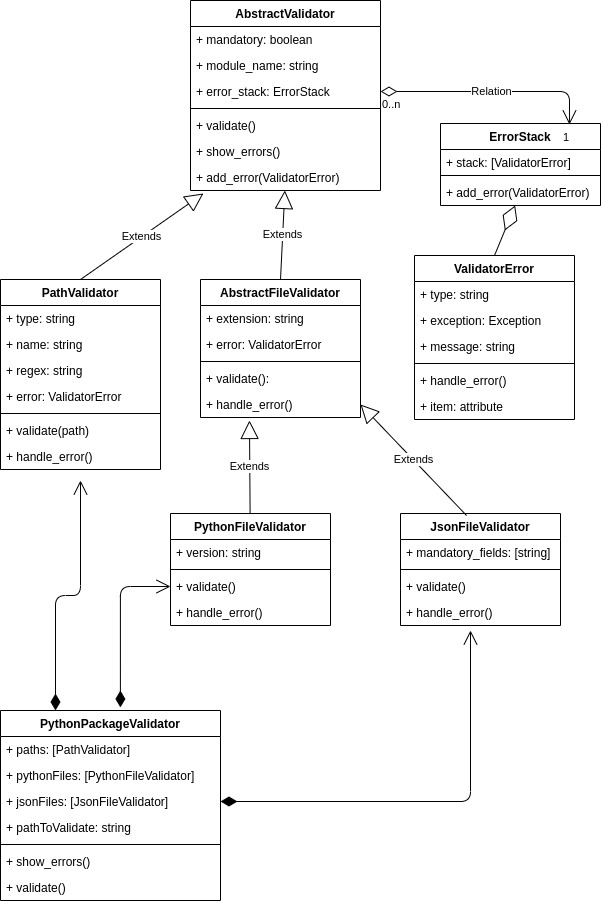
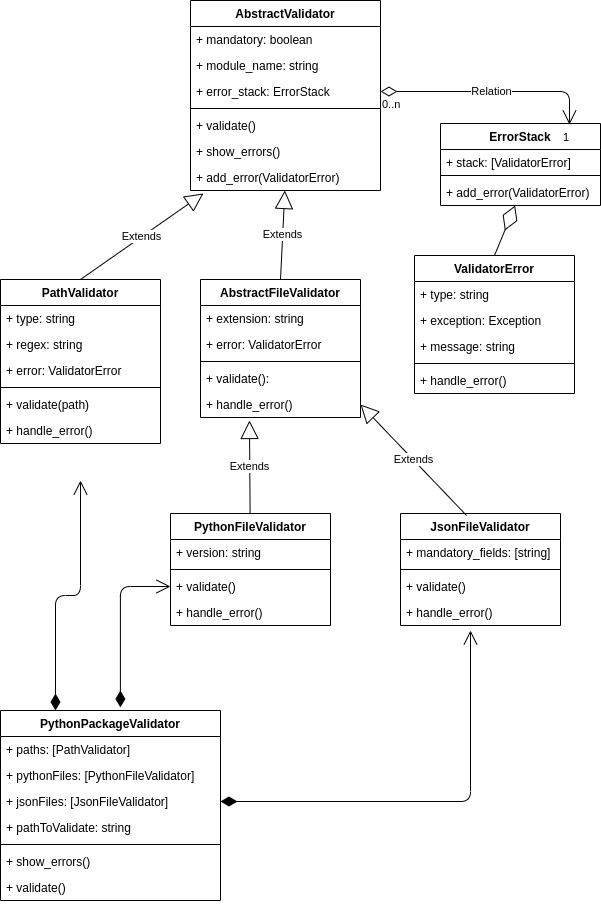
Fixed diagram

Changed region(s): [[0.0, 0.3717, 0.2097, 0.5265], [0.6889, 0.4336, 0.8386, 0.4646], [0.9285, 0.4336, 0.9584, 0.4646]]

diff --git a/design-patterns/package-validator/validators.py b/design-patterns/package-validator/validators.py
@@ -1,0 +1,65 @@
+from abc import ABC, abstractmethod
+
+import os
+from os import path
+import re
+from error_handlers import ValidatorError, ErrorStack
+
+class AbstractValidator:
+    def __init__(self, module_name, mandatory=True):
+        self.module_name = module_name
+        self.mandatory = mandatory
+        self.error_stack = ErrorStack()
+
+    @abstractmethod
+    def validate(self):
+        pass
+
+    def add_error(self, message, exception=None):
+        ve = ValidatorError(message, exception)
+        self.error_stack.add_error(ve)
+
+    def show_errors(self):
+        print('Error Stack:')
+        for validation_error in self.error_stack:
+            print()
+            validation_error.show()
+
+class PathValidator(AbstractValidator):
+    def __init__(self, regex='', type='folder'):
+        self.regex = regex
+        self.type = type
+        self.error = None # initialize empty
+
+    # overriding
+    def validate(self):
+        '''
+        Validates if the path exists. If self.regex exists it
+        check if some directory matches
+        :return:
+        '''
+        if not path.exists(self.module_name):
+            self.handle_error(f'Path {self.module_name} does not exist')
+
+        if self.regex != '':
+            regex = re.compile(self.regex)
+            matches = False
+            try:
+                for root, dirs, files in os.walk(self.module_name):
+                    for file in files:
+                        if regex.match(file):
+                            matches = True
+                            break
+                    if matches is True:
+                        break
+                if matches is False:
+                    super().add_error(
+                        f'Path {self.module_name} does not matches regex {self.regex}')
+            except Exception as E:
+                super().add_error(f'Error finding path {path}', E)
+
+    def handle_error(self, message):
+        super().add_error(f'Path {self.module_name} does not exist')
+
+class AbstractFileValidator(AbstractValidator):
+    def __init__(self, extension):

diff --git a/design-patterns/package-validator/error_handlers.py b/design-patterns/package-validator/error_handlers.py
@@ -1,0 +1,23 @@
+from os import path
+
+class ValidatorError:
+    def __init__(self, errtype, message, exception):
+        self.errtype = errtype
+        self.message = message
+        self.exception = exception
+
+    def handle_error(self, message, exception):
+        if exception is not None:
+            self.errtype = type(exception)
+        else:
+            self.errtype = 'Generic'
+        self.message = message
+        self.exception = exception
+
+
+class ErrorStack:
+    def __init__(self, stack=[]):
+        self.stack = stack
+
+    def add_error(self, validation_error: ValidatorError):
+        self.stack.append(validation_error)
